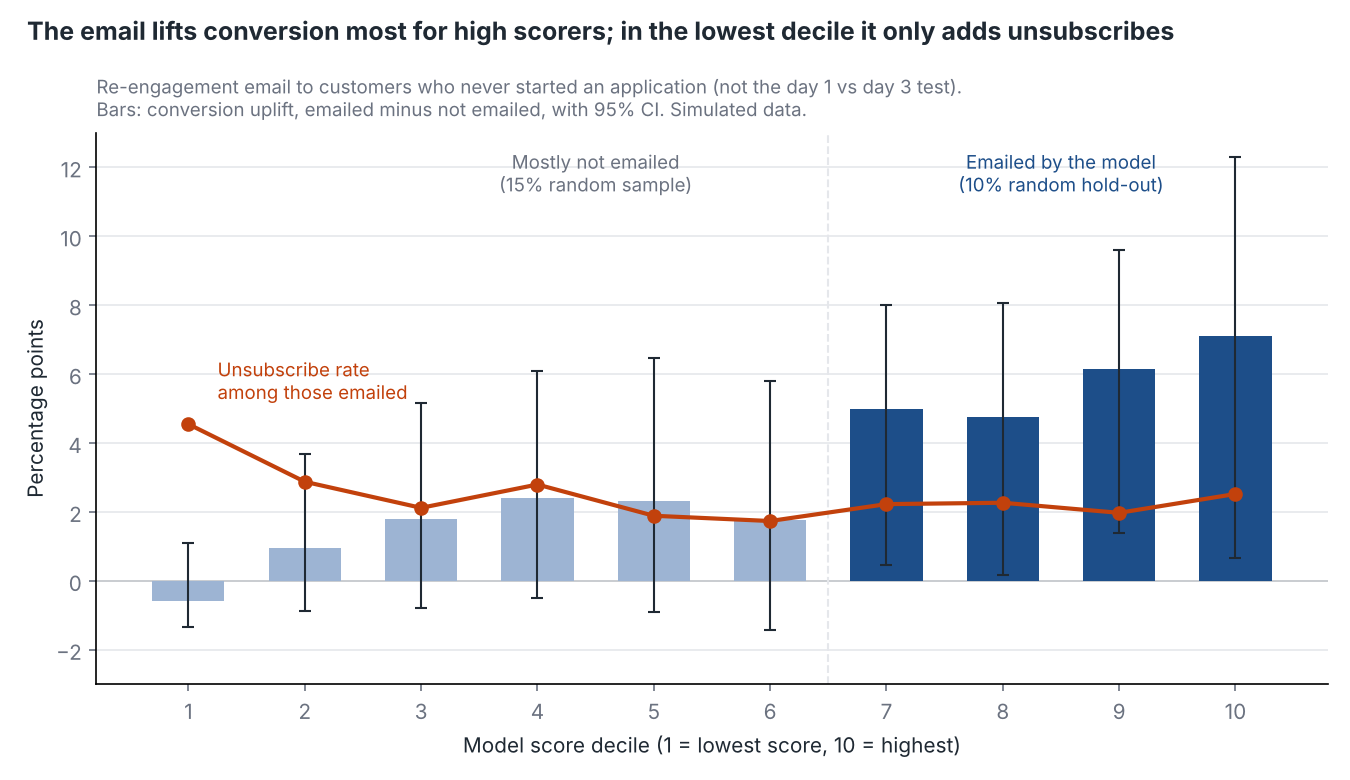
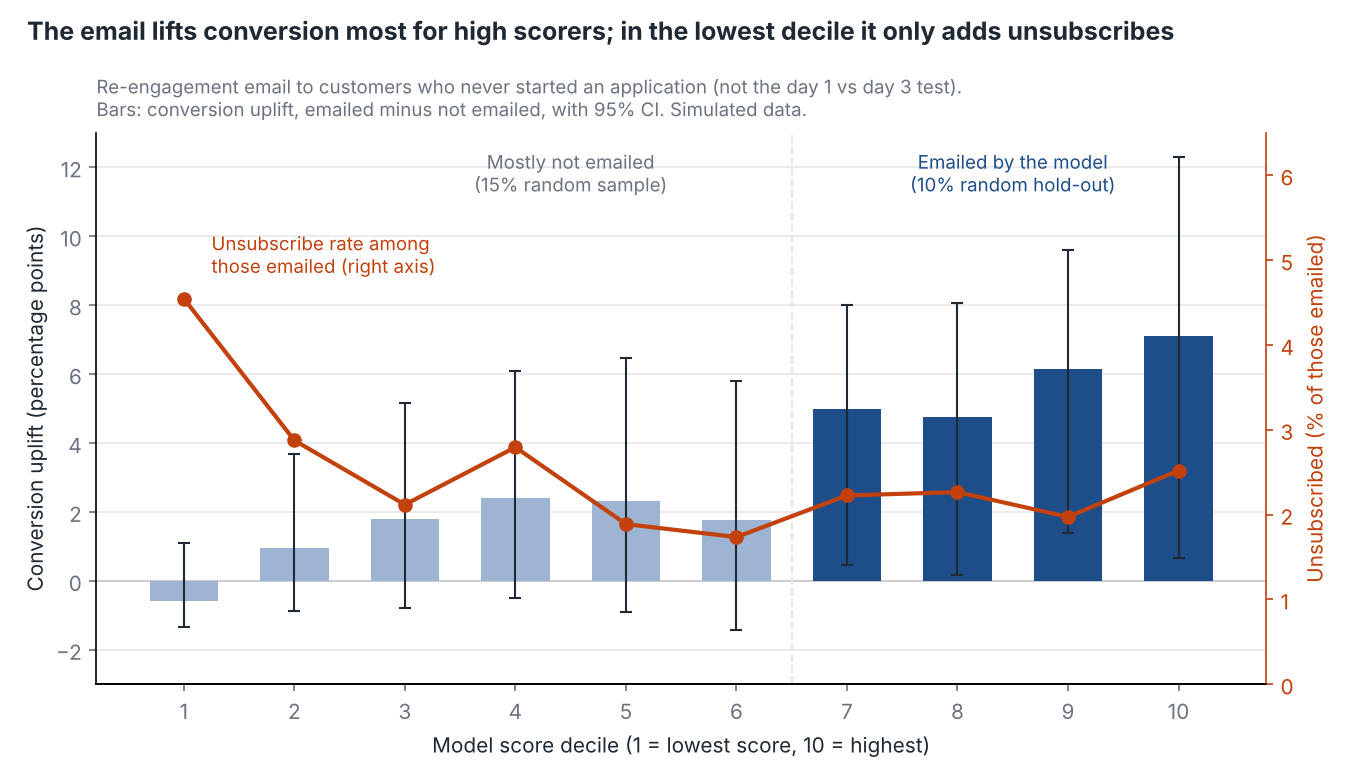
Model chart: separate axis for unsubscribe rate

diff --git a/analysis/model_check_chart.py b/analysis/model_check_chart.py
@@ -33,23 +33,32 @@ TARGET, EXPLORE, UNSUB = "#1d4e89", "#9db4d3", "#c2410c"
 fig, ax = plt.subplots(figsize=(9, 5.2), dpi=150)
 ax.bar(dec, up, color=[TARGET if t else EXPLORE for t in targeted], width=0.62, zorder=2)
 ax.errorbar(dec, up, yerr=[[e[0] for e in err], [e[1] for e in err]], fmt="none", ecolor=INK, elinewidth=1, capsize=3, zorder=3)
-ax.plot(dec, unsub, color=UNSUB, marker="o", linewidth=2, zorder=4)
 ax.axhline(0, color=INK, linewidth=0.8, zorder=1)
 
 ax.set_xticks(dec)
 ax.set_xticklabels([str(d) for d in dec])
 ax.set_xlabel("Model score decile (1 = lowest score, 10 = highest)", color=INK)
-ax.set_ylabel("Percentage points", color=INK)
+ax.set_ylabel("Conversion uplift (percentage points)", color=INK)
 ax.grid(axis="y", color=GRID, zorder=0)
 for s in ("top", "right"):
     ax.spines[s].set_visible(False)
 ax.tick_params(colors=MUTED)
 
-ax.text(1.25, unsub[0] + 0.6, "Unsubscribe rate\namong those emailed", color=UNSUB, fontsize=9, ha="left", va="bottom")
 ax.text(4.5, 11.3, "Mostly not emailed\n(15% random sample)", color=MUTED, fontsize=9, ha="center")
 ax.text(8.5, 11.3, "Emailed by the model\n(10% random hold-out)", color=TARGET, fontsize=9, ha="center")
 ax.axvline(6.5, color=GRID, linewidth=1, linestyle="--", zorder=1)
 ax.set_ylim(-3, 13)
+
+# Unsubscribe rate is a rate (%), not a difference, so it gets its own right-hand axis
+ax2 = ax.twinx()
+ax2.plot(dec, unsub, color=UNSUB, marker="o", linewidth=2, zorder=4)
+ax2.set_ylim(0, 6.5)
+ax2.set_ylabel("Unsubscribed (% of those emailed)", color=UNSUB)
+ax2.tick_params(axis="y", colors=UNSUB)
+ax2.spines["right"].set_color(UNSUB)
+for s in ("top", "left"):
+    ax2.spines[s].set_visible(False)
+ax2.text(1.25, unsub[0] + 0.25, "Unsubscribe rate among\nthose emailed (right axis)", color=UNSUB, fontsize=9, ha="left", va="bottom")
 
 fig.suptitle("The email lifts conversion most for high scorers; in the lowest decile it only adds unsubscribes",
              x=0.02, ha="left", fontsize=12, fontweight="bold", color=INK)
